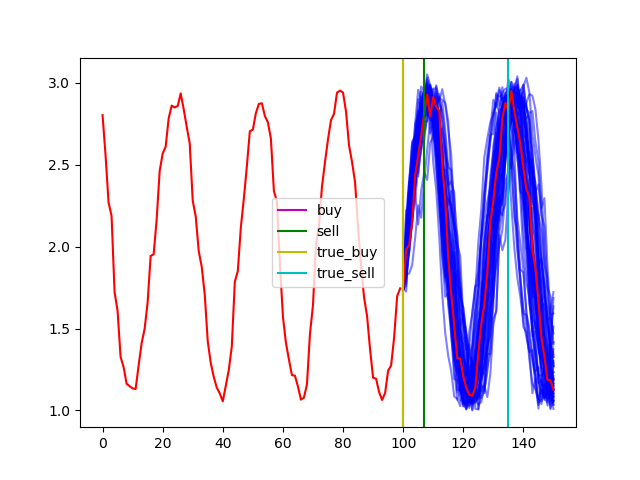
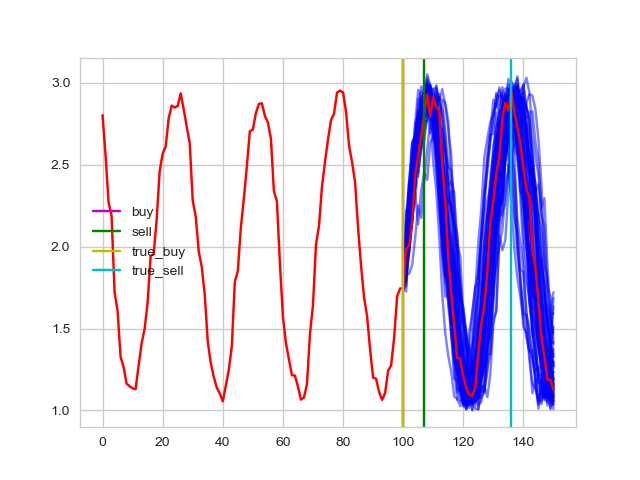
plots, experiments

diff --git a/thesis_code/generating_events_from_known_model.py b/thesis_code/generating_events_from_known_model.py
@@ -1,7 +1,8 @@
 from typing import Sequence, Tuple, Callable
 import numpy as np
 import matplotlib.pyplot as plt
-plt.close()
+import seaborn as sns
+sns.set(style="whitegrid")
 import copy
 import os
 import pandas as pd
@@ -29,6 +30,8 @@ def compute_roi(timeseries: Sequence[float], events: Sequence[Tuple[str, int]], 
     :return:
     """
     amount=0
+    print(events)
+    print(np.max(timeseries))
     for event_type, price, time_step in events:
         if event_type=='buy':
             # market order are time specific, and cost a fee
@@ -90,17 +93,18 @@ class ProbModel:
         return copy.deepcopy(self)
 
 
-def make_buy_sell_events(futures, strategy, transaction_cost, reduce_risk) -> Sequence[Tuple[str, float, int]]:
+def make_buy_sell_events(futures, strategy, transaction_cost, reduce_risk, order_type) -> Sequence[Tuple[str, float, int]]:
     """
     tuple in form of: ('event', price, moment)
     """
-    events = eval(strategy)(futures, reduce_risk, format='price', transaction_cost=transaction_cost)
+    events = eval(strategy)(futures, reduce_risk, order_method=order_type, transaction_cost=transaction_cost)
     return events
     
 
 def evaluate_model(prob_model: ProbModel, event_function: Callable, strategy: str, n_run_steps = 10, 
-                    n_eval_steps = 10, transaction_cost=1, reduce_risk=False, order_type='market_order', 
+                    n_eval_steps = 10, transaction_cost=1, reduce_risk=0., order_type='market_order', 
                     n_simulations=1000, initial_seed=1234, make_fig=False):
+    transaction_cost = transaction_cost if order_type == 'market_order' else 0.0
 
     rng = np.random.RandomState(initial_seed)
     context = prob_model.simulate(n_steps=n_run_steps, rng=rng)
@@ -116,13 +120,13 @@ def evaluate_model(prob_model: ProbModel, event_function: Callable, strategy: st
     true_future = prob_model.simulate(n_steps=n_eval_steps, rng = np.random.RandomState(initial_seed+n_simulations))
     true_future.insert(0, context[-1])
 
-    events = event_function(futures, strategy, transaction_cost, reduce_risk)
+    events = event_function(futures, strategy, transaction_cost, reduce_risk, order_type)
     if events:
         roi = compute_roi(true_future, events, transaction_cost, order_type )
     else:
         roi = 0
 
-    true_events = event_function([true_future], strategy, transaction_cost, reduce_risk=False)
+    true_events = event_function([true_future], strategy, transaction_cost, reduce_risk=0.)
     if true_events:
         target_roi = compute_roi(true_future, true_events, transaction_cost, order_type )
     else:
@@ -135,12 +139,14 @@ def evaluate_model(prob_model: ProbModel, event_function: Callable, strategy: st
         plt.plot(context, c='r')
         plt.plot((np.arange(n_run_steps, n_run_steps+n_eval_steps+1)*np.ones(np.shape(futures))).T, np.array(futures).T, alpha=0.5, c='b')
         plt.plot(np.arange(n_run_steps, n_run_steps+n_eval_steps+1), true_future, c='r')
-        for event in events:
-            color = 'm' if event[0] == 'buy' else 'g'
-            plt.axvline(x=event[-1]+n_run_steps, label=event[0], c=color)
-        for event in true_events:
-            color = 'y' if event[0] == 'buy' else 'c'
-            plt.axvline(x=event[-1]+n_run_steps, label='true_'+event[0], c=color)
+        if events:
+            for event in events:
+                color = 'm' if event[0] == 'buy' else 'g'
+                plt.axvline(x=event[-1]+n_run_steps, label=event[0], c=color)
+        if true_events:
+            for event in true_events:
+                color = 'y' if event[0] == 'buy' else 'c'
+                plt.axvline(x=event[-1]+n_run_steps, label='true_'+event[0], c=color)
         plt.legend()
         plt.savefig('experiment_'+strategy+'_'+str(prob_model.seed)+'.png')
         plt.show()
@@ -210,7 +216,6 @@ def strategy_vs_sample_size():
     plt.savefig('strategy_vs_sample_size/images/simulations_per_trial.png')
     plt.show()
 
-
 def order_type_vs_strategy():
 
     make_dirs('order_type_vs_strategy')
@@ -227,9 +232,12 @@ def order_type_vs_strategy():
     
     df = pd.DataFrame([])
 
-    colors = ['r', 'b', 'g', 'm']
-    i = 0
-    plt.figure('order_type_vs_strategy')
+    errors = []
+    gains = []
+    aims = []
+    labels = []
+
+    f, axarr = plt.subplots(2, 1)
     for strategy in [1,2]:
         print('strategy: ', str(strategies(strategy).name))
         for order_type in [1,2]:
@@ -237,11 +245,30 @@ def order_type_vs_strategy():
             estimates, targets = run_experiments(trials, simulations_per_trial, strategy, order_type, transaction_cost, input_seq_len, output_seq_len,
                             x_noise, v_noise, m_noise, reduce_risk)            
             error = np.mean(np.subtract(targets,estimates))
-            plt.bar(i, error, label = str(strategies(strategy).name)+'/'+str(order_types(order_type).name) )
-    plt.legend()
+            errors.append(error)
+            gains.append(np.sum(estimates))
+            aims.append(np.sum(targets))
+            labels.append(str(strategies(strategy).name)+'\n'+str(order_types(order_type).name) )
+
+
+    axarr[0].bar([1,2], [errors[0], errors[2]] , label = str(order_types(1).name))
+    axarr[0].bar([1,2], [errors[1], errors[3]] , label = str(order_types(2).name),bottom=[errors[0], errors[2]])
+    plt.setp(axarr[0], xticks=[1, 2], xticklabels=[str(strategies(1).name), str(strategies(2).name)])
+    # axarr[0].set_xticks([1,2], )
+
+    X1 = np.array([0, 1, 3, 4])
+    X2 = np.array([0.9, 1.9, 3.9, 4.9])
+    axarr[1].bar(X1, gains, width=0.4, label = 'estimate' , color = 'b')
+    axarr[1].bar(X2-0.5, aims, width=0.4, label = 'target' , color='r')
+    plt.setp(axarr[1], xticks=[0.25, 1.25, 3.25, 4.24], xticklabels=[str(order_types(1).name), str(order_types(2).name),
+                                                     str(order_types(1).name), str(order_types(2).name)])
+    
+    axarr[0].legend()
+    axarr[1].legend()
+    axarr[0].set_ylabel('Error')
+    axarr[1].set_ylabel('Total ROI') 
     plt.savefig('order_type_vs_strategy/images/order_type_vs_strategy.png')
     plt.show()
-
 
 def strategy_vs_transaction_cost():
 
@@ -285,7 +312,7 @@ def noise_vs_risk():
     x_noise_initial = 0.1
     v_noise_initial = 0.08
     m_noise = 0.05
-    order_type = 1
+    order_type = 2
     transaction_cost = 0.05
     input_seq_len = 100
     output_seq_len = 50
@@ -322,15 +349,15 @@ def show_an_example():
     x_noise = 0.1
     v_noise = 0.08
     m_noise = 0.05
-    reduce_risk = False
-    order_type = 1
+    reduce_risk = 0.7
+    order_type = 2
     transaction_cost = 0.05
     input_seq_len = 100
     output_seq_len = 50
     strategy = 1
 
-    evaluate_model(
-        prob_model=ProbModel(10, measurement_noise=m_noise, x_noise = x_noise , v_noise = v_noise),
+    print(evaluate_model(
+        prob_model=ProbModel(4, measurement_noise=m_noise, x_noise = x_noise , v_noise = v_noise),
         event_function=make_buy_sell_events,
         strategy = str(strategies(strategy).name),
         n_run_steps = input_seq_len, 
@@ -340,11 +367,11 @@ def show_an_example():
         reduce_risk = reduce_risk,
         order_type = str(order_types(order_type).name),
         make_fig = True
-        )
+        ))
 
 if __name__ == '__main__':
 
-    noise_vs_risk()
+    show_an_example()
 
 
    

diff --git a/thesis_code/strategies_v2.py b/thesis_code/strategies_v2.py
@@ -1,25 +1,19 @@
-
 import numpy as np
 
 from utils import *
 
-def now_or_never(futures, reduce_risk=0.9, order_method = 'market_order', transaction_cost=0.0):
+def now_or_never(futures, reduce_risk=False, format='price', transaction_cost=0.0):
 
     """
     This strategy buys now when profit can be made, it does not wait for better oppertunities
     """
-
-    reduce_risk = np.min([1., reduce_risk]) # should be between 0 and 1
-    print(reduce_risk)
-    print(order_method)
-    bah
 
     current_price = futures[0][0]
     # expectation of the maximum best deal 
     best_deal  = np.mean([np.max(future[1:])-future[0] for future in futures])
     selling_price = best_deal+current_price
     if best_deal > (transaction_cost*current_price + transaction_cost*selling_price):
-        # case of one sample need special treatment
+        # one sample need special treatment
         if np.shape(futures)[0] == 1:
             return [('buy', current_price, 0), 
                 ('sell', selling_price, np.argmax(futures[0][1:])+1)]
@@ -27,26 +21,19 @@ def now_or_never(futures, reduce_risk=0.9, order_method = 'market_order', transa
         T = len(futures[0])
         time_slices = [[future[t] for future in futures] for t in range(1,T)]
         F = [ECDF(time_slice, [selling_price]) for time_slice in time_slices]
+        F = F
         score = [1. - f for f in F]
-
-        # penalize for fat tail if you like
-        if reduce_risk>0 and order_method=='market_order':
-            beta = reduce_risk*np.min(score)/10.
-            # low shortfall is bad since this means low selling price
-            penalty = [beta/expected_shortfall(time_slice) for time_slice in time_slices]
-            score = [score[i] - penalty[i] for i in range(len(penalty))]
-
-        elif reduce_risk>0 and order_method == 'limit_order':
-            penalty = [expected_shortfall(time_slice) for time_slice in time_slices]
-            adjusted_selling_price = ((1-reduce_risk)*selling_price) + (reduce_risk*penalty[selling_moment-1])
-            print('selling_price:', selling_price, ' adjusted_selling_price: ', adjusted_selling_price)
-            selling_price = adjusted_selling_price
-            best_deal = selling_price-current_price
-            if best_deal <= (transaction_cost*current_price + transaction_cost*selling_price):
-                return None
-
         score = np.asmatrix(score)
         selling_moment = np.argmax(score[1:]) + 1
+        # penalize for fat tail if you like
+        if reduce_risk:
+            penalty = [expected_shortfall(time_slice) for time_slice in time_slices]
+            adjusted_selling_price = (0.9*selling_price) + (0.1*penalty[selling_moment-1])
+            print('selling_price:', selling_price, ' adjusted_selling_price: ', adjusted_selling_price)
+            selling_price = adjusted_selling_price
+            best_deal = adjusted_selling_price-current_price
+            if best_deal <= (transaction_cost*current_price + transaction_cost*selling_price):
+                return None
 
         return [('buy', current_price, 0), 
                 ('sell', selling_price, selling_moment)]
@@ -87,27 +74,16 @@ def if_you_do_it_do_it_good(futures, reduce_risk=False, format='price', transact
         # find best selling moment = were most futures are within this region
         time_slices = [[future[t] for future in futures] for t in range(1,T)]
         F_buy = [ECDF(time_slice, [buying_price]) for time_slice in time_slices]
-        score_buy = F_buy/np.sum(F_buy)
+        score_buy = F_buy
         buying_moment = np.argmin(F_buy[:buy_before+1])
         F_sell = [ECDF(time_slice, [selling_price]) for time_slice in time_slices]
         F_sell = F_sell/np.sum(F_sell)
         score_sell = [1. - f for f in F_sell]
-
         # penalize for fat tail if you like
-        if reduce_risk and order_method=='market_order':
+        if reduce_risk:
             beta = np.min(score_sell)/100.
             penalty = [beta/expected_shortfall(time_slice) for time_slice in time_slices]
             score_sell = [score_sell[i] - penalty[i] for i in range(len(penalty))]
-        
-        elif reduce_risk and order_method == 'limit_order':
-            penalty = [expected_shortfall(time_slice) for time_slice in time_slices]
-            adjusted_selling_price = (0.9*selling_price) + (0.1*penalty[selling_moment-1])
-            print('selling_price:', selling_price, ' adjusted_selling_price: ', adjusted_selling_price)
-            selling_price = adjusted_selling_price
-            best_deal = adjusted_selling_price-current_price
-            if best_deal <= (transaction_cost*buying_price + transaction_cost*selling_price):
-                return None
-
         score_sell = np.asmatrix(score_sell)
         selling_moment = buying_moment + (np.argmax(score_sell[buying_moment+1:])+1)
         return [('buy', buying_price, buying_moment), 

diff --git a/thesis_code/utils.py b/thesis_code/utils.py
@@ -6,12 +6,12 @@ import os
 
 def ECDF(data, samples):
     ecdf = [np.sum(np.where( sample >= data, 1, 0)) for sample in samples]
-    return ecdf
+    return np.divide(ecdf,len(data))
 
     
 def KDE(data, samples, bandwidth):
     cdf = np.sum([norm(0).cdf((data-xi)/bandwidth) for xi in samples], axis=1)
-    return cdf
+    return np.divide(cdf,len(data))
 
 
 def get_cdf(data, samples, method='ecdf', bandwidth='1.0'):

diff --git a/thesis_code/test2.py b/thesis_code/test2.py
@@ -1,0 +1,13 @@
+
+
+import pandas as pd
+import matplotlib.pyplot as plt
+import numpy as np
+import seaborn as sns
+import matplotlib.ticker as ticker
+
+a = [1,2,3,4,5,6]
+
+print(a[1+1:])
+
+print(a[1])
